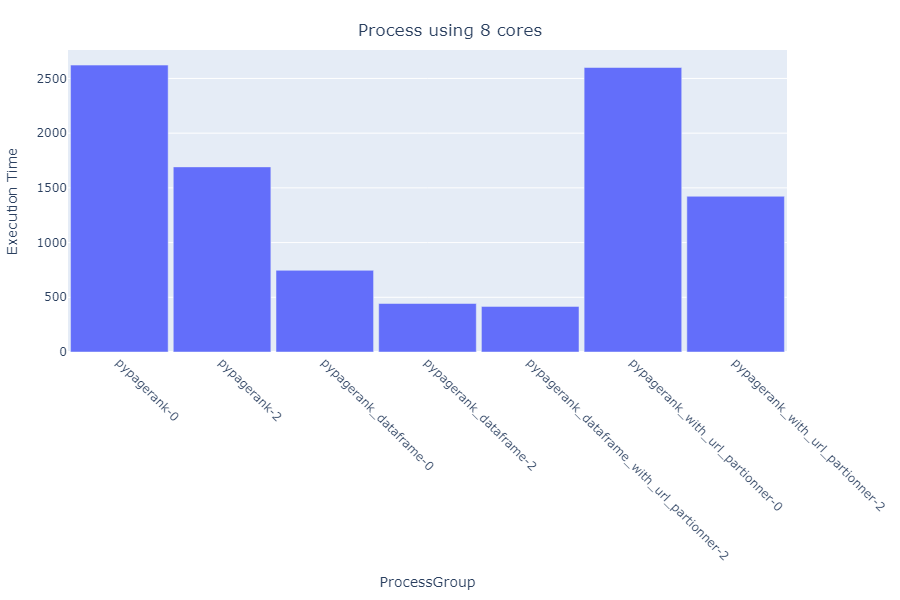
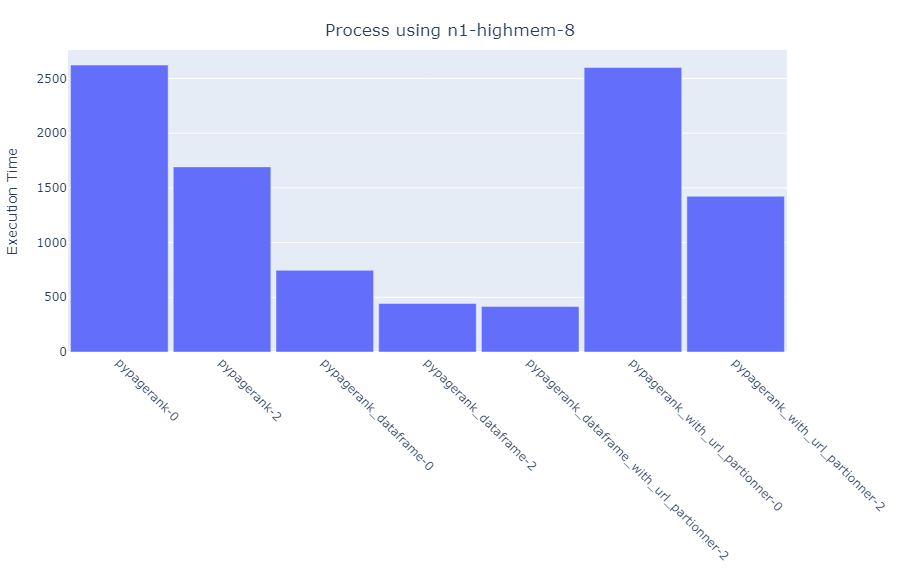
Final ReadMe

diff --git a/README.md b/README.md
@@ -1,12 +1,22 @@
 Sewraj Hreshvik, Sisarith Elisabeth, Stucky Nicolas
 # PageRank2024
 
+*Crédit* : Le code est basé sur celui de [https://github.com/momo54/large_scale_data_management](https://github.com/momo54/large_scale_data_management)
+
 L'URL ayant obtenu le meilleur classement est `<http://dbpedia.org/resource/Living_people>`, avec un score de 36794.33146754498.
 
 ## Résultats
 
+Les implémentations *pypagerank* correspondent aux méthodes avec RDD et *pypagerank_dataframe* aux méthodes utilisant des DataFrames sans url partionner.
+
 ![Graphique des résultats avec 8 cœurs](report/8%20cores.png)
-*Figure 1 : Résultats de l'exécution avec 8 cœurs.*
+*Figure 1 : Résultats de l'exécution sur n1-highmem-8.*
+
+Dans ce graphique, nous comparons les différentes méthodes utilisant 1 nœud ("-0") et 2 nœuds ("-2").  
+Il manque le pypagerank_dataframe_with_url_partionner-0 car son exécution produit une erreur.  
+Nous n'avons pas réussi à faire tourner les processus sur 4 nœuds car il n'est pas possible de réserver 4 machines n1-highmem-8. Aussi, nous n'avons pas pu faire tourner sur les n1-standard-4 avec 1 seul nœud. 
+
+Nous avons donc réexécuté les codes sur 2 nœuds, cette fois sur les machines n1-standard-4 pour avoir une base de comparaison avec ceux sur 4 nœuds sur ces mêmes machines.  
 
 ![Comparaison des résultats avec différents nombres de cœurs](report/different_cores.png)
-*Figure 2 : Comparaison des performances avec différents nombres de cœurs.*
+*Figure 2 : Comparaison des performances sur n1-highmem-8 et n1-standard-4.*
